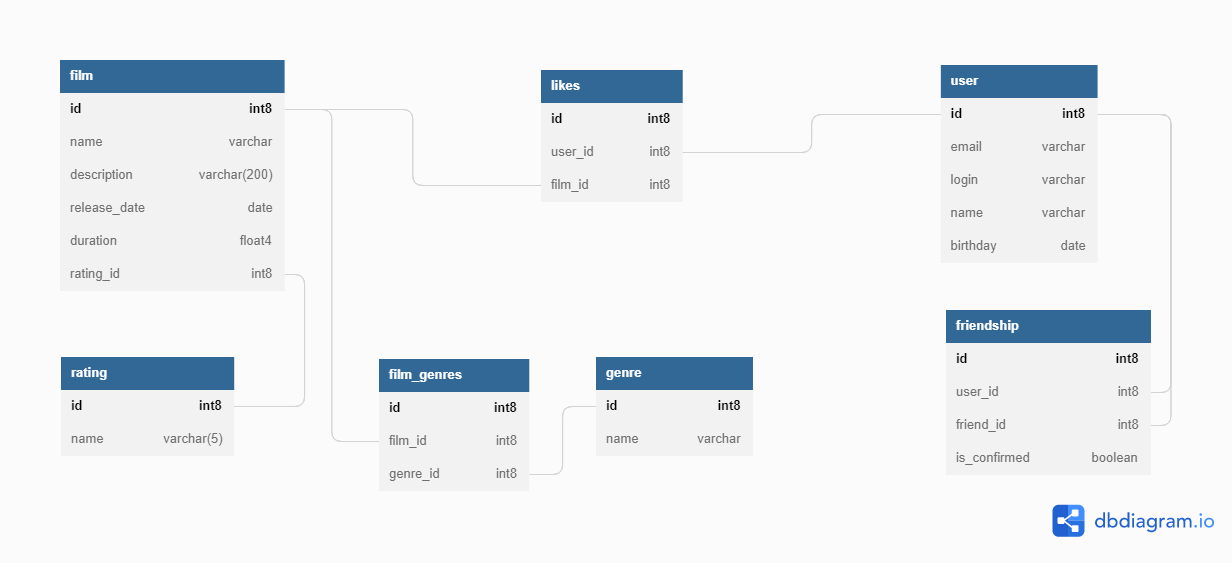
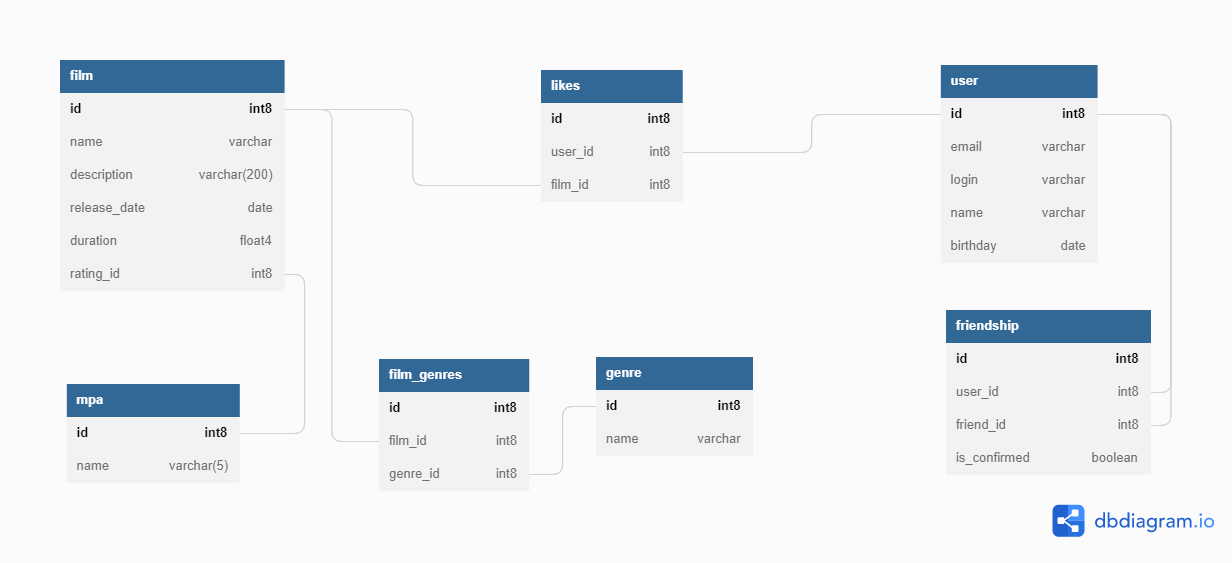
refactor: актуализировать диаграмму и schema.sql

Changed region(s): [[0.0308, 0.6341, 0.2159, 0.7851], [0.1234, 0.8153, 0.1851, 0.8455], [0.0617, 0.8153, 0.0925, 0.8455]]

diff --git a/src/main/java/ru/yandex/practicum/filmorate/storage/film/FilmDbStorage.java b/src/main/java/ru/yandex/practicum/filmorate/storage/film/FilmDbStorage.java
@@ -140,7 +140,8 @@ public class FilmDbStorage implements FilmStorage {
   @Override
   public Collection<Mpa> getMpaList() {
     var sqlQuery = "SELECT id, name "
-        + "FROM \"mpa\"";
+        + "FROM \"mpa\" "
+        + "ORDER BY id";
 
     return jdbcTemplate.query(sqlQuery, (rs, rowNum) -> makeMpa(rs));
   }
@@ -157,7 +158,8 @@ public class FilmDbStorage implements FilmStorage {
   @Override
   public Collection<Genre> getGenres() {
     var sqlQuery = "SELECT id, name "
-        + "FROM \"genre\"";
+        + "FROM \"genre\" "
+        + "ORDER BY id";
 
     return jdbcTemplate.query(sqlQuery, (rs, rowNum) -> makeGenre(rs));
   }
